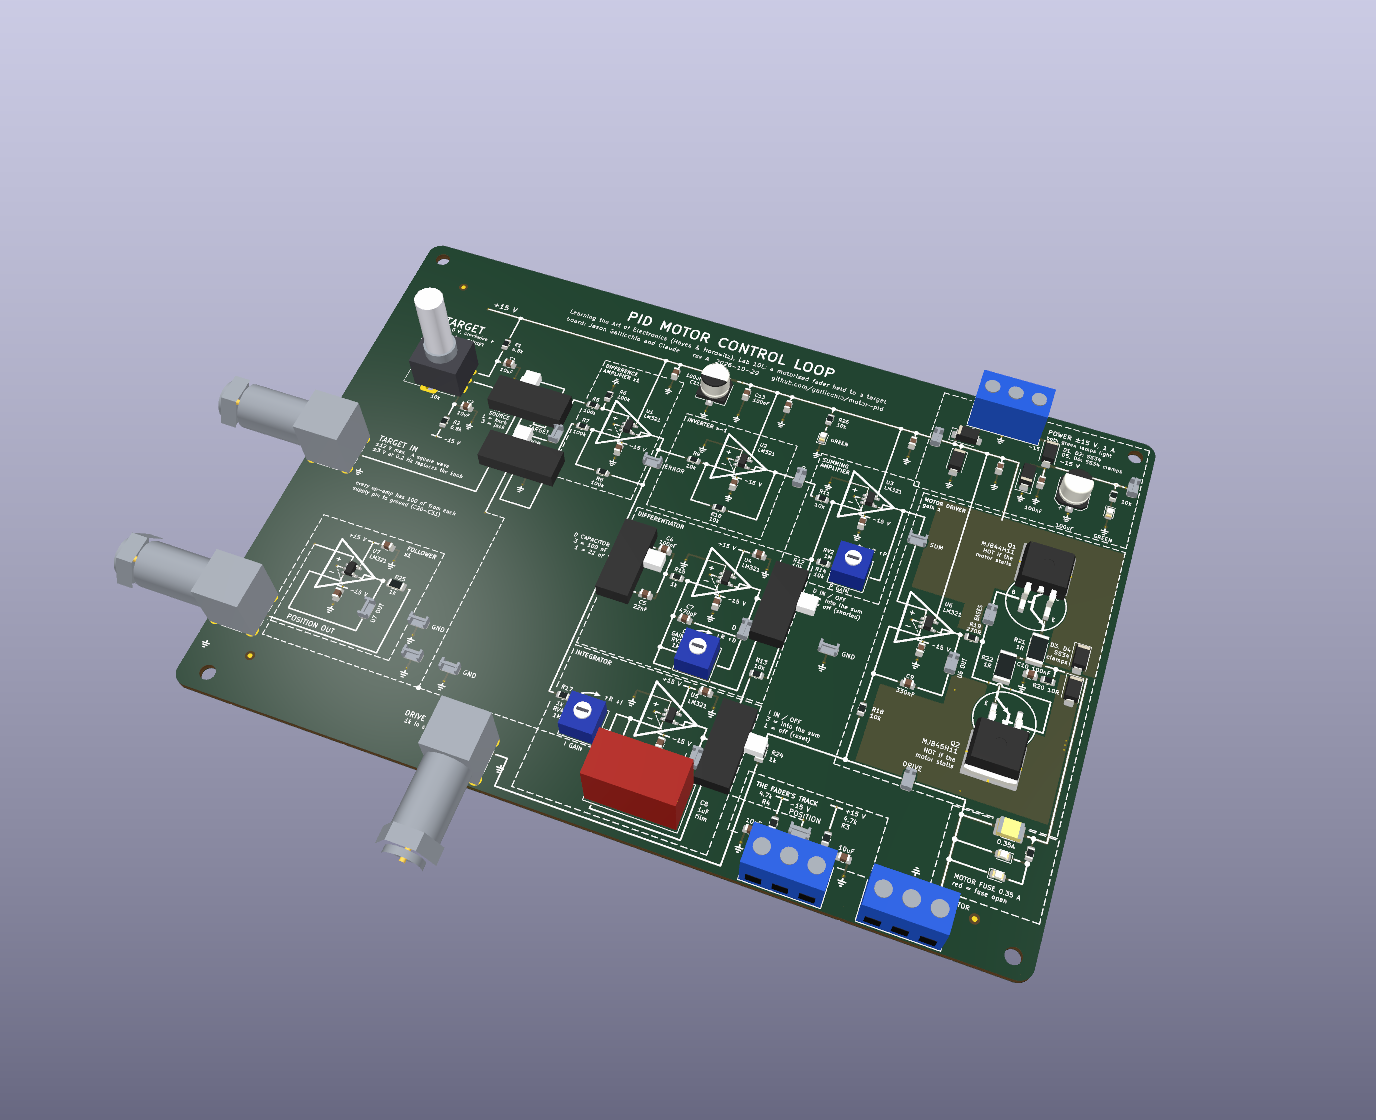
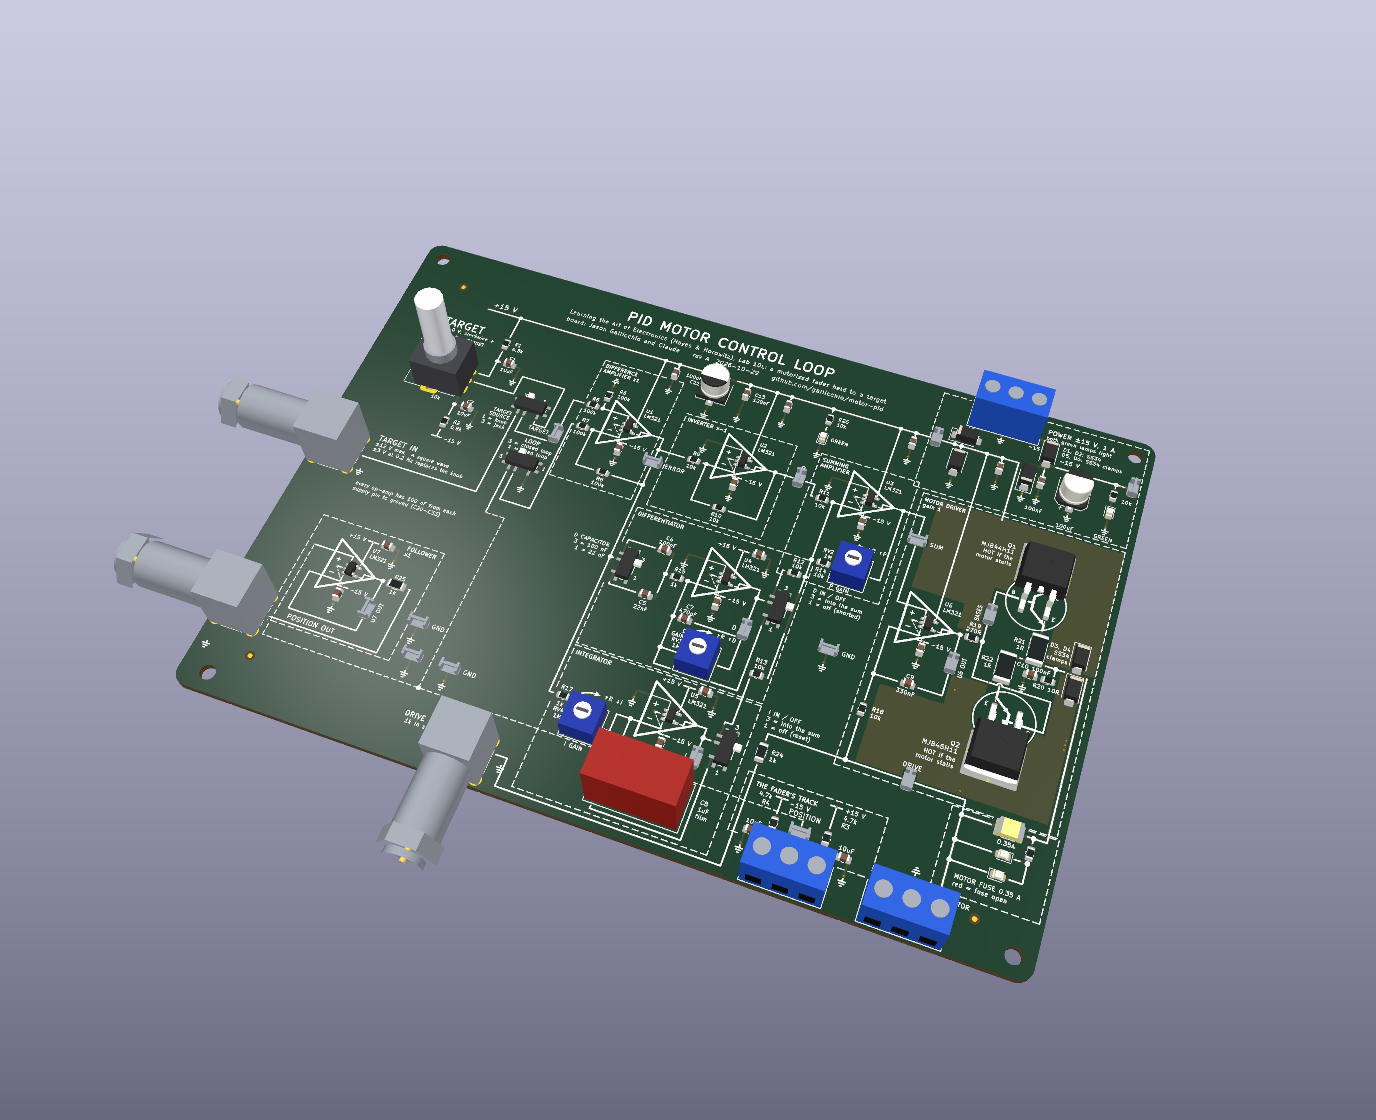
The slide switches' 3D model at 1/2.54 like every other model; chat log Response 16
gen_models.py draws SW_MSK12C02.wrl in millimetres, and KiCad reads a VRML unit as
2.54 mm, so every other model() call passes scale=MM_SCALE.  The MSK12C02's did not:
its footprint and the board's five switches had scale 1 and rendered 2.54 times too
big (16.8 x 6.9 x 3.6 mm over their own labels).  Footprint, board model scales and
the top and tilted renders regenerated; copper, silkscreen and fab files unchanged.

Claude-Session: https://claude.ai/code/session_01Uf588FotZsxqNys61dgBLH

diff --git a/scripts/gen_footprints.py b/scripts/gen_footprints.py
@@ -185,7 +185,7 @@ def msk12c02():
     rect_lines(f, -1.45, 1.35, 1.45, 2.8, "F.Fab", FAB_W, f"{name}/fab/knob")      # its travel
     rect_lines(f, -4.45, -2.85, 4.45, 3.05, "F.CrtYd", CRT_W, f"{name}/crt")
     text_fab(f, "2=C", 0, 0.6, f"{name}/fabtxt", size=0.6)
-    model(f, "${KIPRJMOD}/lib/motorpid.3dshapes/SW_MSK12C02.wrl")
+    model(f, "${KIPRJMOD}/lib/motorpid.3dshapes/SW_MSK12C02.wrl", scale=MM_SCALE)
     return name, f
 
 

diff --git a/CLAUDE_CODE_CHAT.md b/CLAUDE_CODE_CHAT.md
@@ -721,3 +721,33 @@ the body where the upload puts it against our courtyard.
   and the 3D model now show it.
 - **Build:** ERC 0, 258 checks, DRC 0, thermal 120/122 °C, all fab checks, 31/31 claims;
   check_rotations.py passes (fit, upload, bodies).
+
+## Prompt 19
+
+*Given in a Claude Code cloud session working on `gallicchio/earth-nmr-pcb`, whose Response 1 had found
+this; the whole prompt:*
+
+> I want an audio jack for a standard 3.5mm headphones. Find one with a known pinout on JLCPCB. Also, fix the small issue in motor-pid if you can confirm your improvement.
+
+## Response 16
+
+*2026-11-01 PST (04:55-05:10 UTC 2026-11-02).  The slide switches' 3D model, 2.54 times too big.*
+
+- **Confirmed.**  `scripts/gen_models.py` draws `SW_MSK12C02.wrl` in millimetres (its docstring: KiCad
+  reads a VRML unit as 2.54 mm, so every footprint carries 1/2.54).  The body is 6.6 x 2.7 x 1.4 mm in
+  the file, and every other model's `model()` call in `scripts/gen_footprints.py` passes
+  `scale=MM_SCALE`; the MSK12C02's did not, so its footprint and the board's five switches had
+  `(scale (xyz 1 1 1))` and rendered 16.8 x 6.9 x 3.6 mm, covering their own labels (TARGET SOURCE,
+  LOOP).  The earth-nmr board, which copied the footprint, showed the same.
+- **Fixed.**  The one call now passes `scale=MM_SCALE`.  What it changes: the footprint, the board's
+  five model scales (0.393701), and the top and tilted renders.  Nothing on copper, silkscreen or
+  the fab files moves; JLCPCB's preview draws its own model, so the order is unaffected.
+
+  ![before and after](docs/history/r16-switch-model-scale.png)
+
+- **Build.**  `./make.py` ran in this container through ERC 0, 258 circuit checks, DRC 0 and the
+  thermal check (120/122 °C, as before), then stopped at the assembly drawing's fit: Ghostscript or
+  KiCad here (10.0.8; the committed files are 10.0.7's) lays the page out differently: the unchanged
+  HEAD fails the same way in this container, so it has nothing to do with the model.  So only the files the fix changes are committed; the gerbers, PDFs
+  and simulation plots this container regenerated (KiCad's version string in every header, other
+  plotting libraries) were put back.  The bottom render is unchanged (the switches are on the top).
